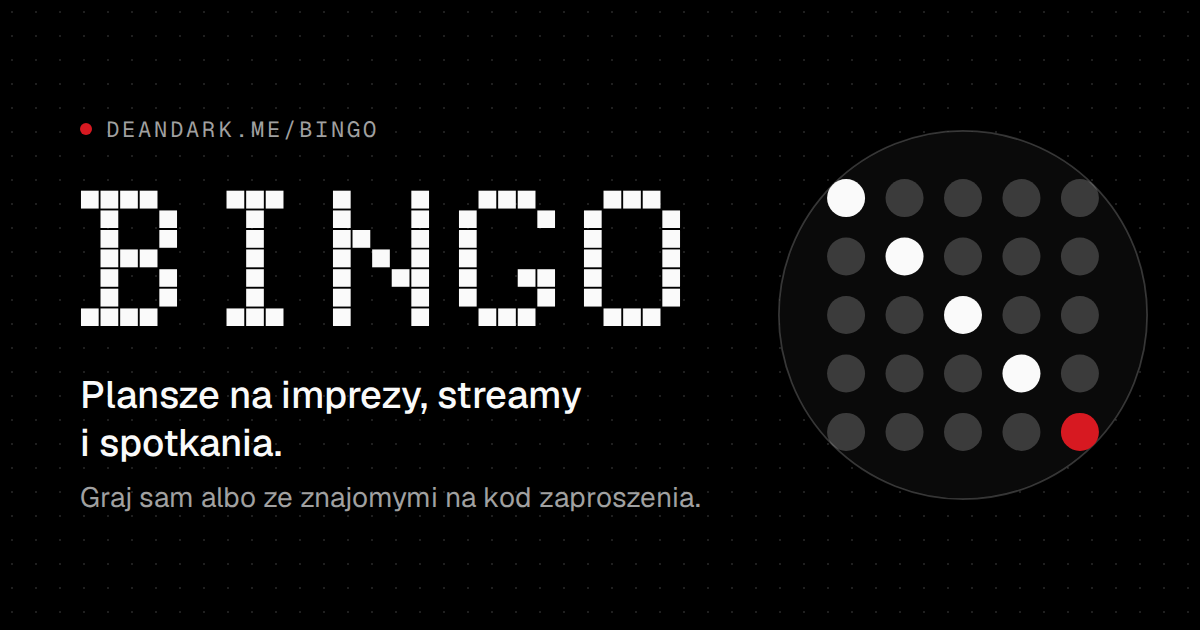
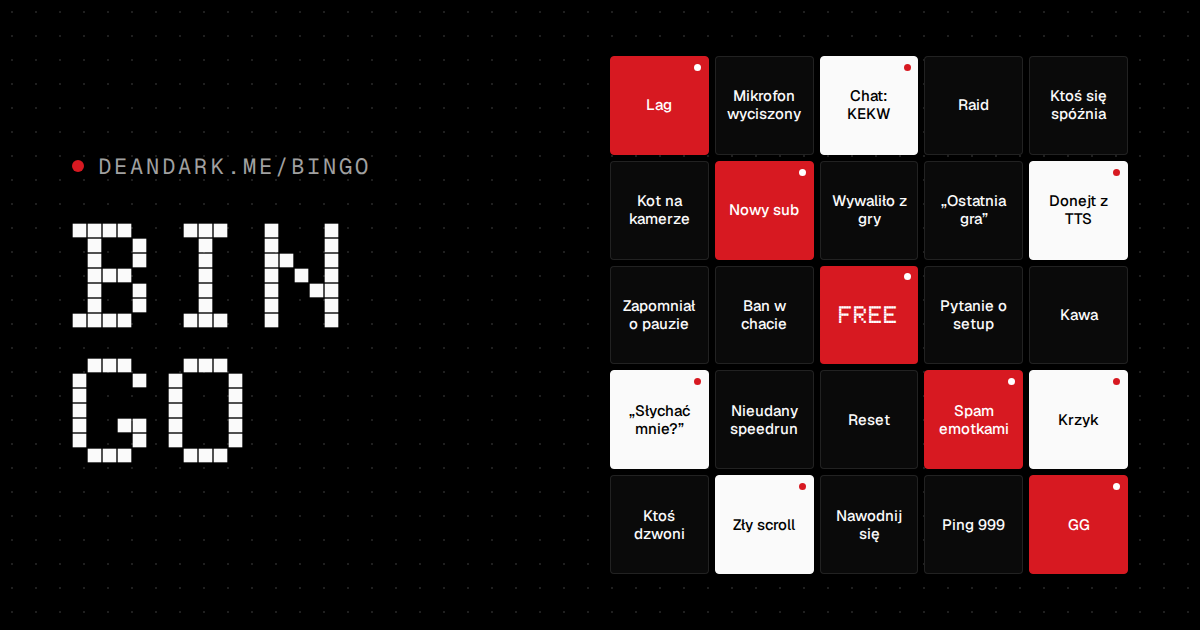
Add a Discord component embed for link previews
Discord renders a Components V2 card for the link when the page head carries
a discord:component-embed payload, like the one on deandark.me. The card
shows a sample board, the logo, the three ways to play and link buttons.
Open Graph stays as the fallback, now with the sample board as its image.

diff --git a/src/app.html b/src/app.html
@@ -10,13 +10,18 @@
 		<meta property="og:title" content="Bingo" />
 		<meta property="og:description" content="Plansze bingo. Sam albo ze znajomymi na kod zaproszenia." />
 		<meta property="og:type" content="website" />
+		<meta property="og:site_name" content="DeanDark" />
 		<meta property="og:locale" content="pl_PL" />
 		<!-- Absolute, since link previews (Discord and others) resolve nothing relative. -->
 		<meta property="og:image" content="https://deandark.me/Bingo/og.png" />
 		<meta property="og:image:width" content="1200" />
 		<meta property="og:image:height" content="630" />
-		<meta property="og:image:alt" content="Bingo: plansze na imprezy, streamy i spotkania" />
+		<meta property="og:image:alt" content="Przykładowa plansza 5×5 z bingo po przekątnej" />
 		<meta name="twitter:card" content="summary_large_image" />
+		<!-- Discord component embed: a Components V2 card in place of the Open Graph preview.
+		     Discord runs no JS, so it lives here; over 3,000 bytes it silently falls back to the tags above.
+		     https://docs.discord.com/developers/link-previews/component-embeds -->
+		<script id="discord:component-embed" type="application/json">{"component":{"type":17,"accent_color":14096673,"components":[{"type":12,"items":[{"media":{"url":"https://deandark.me/Bingo/og.png"},"description":"Przykładowa plansza 5×5 z bingo po przekątnej"}]},{"type":9,"components":[{"type":10,"content":"# [Bingo](https://deandark.me/Bingo/)\n-# DeanDark · plansze bingo\nTwórz plansze na imprezy, streamy i spotkania. Graj sam albo ze znajomymi na kod zaproszenia."}],"accessory":{"type":11,"media":{"url":"https://deandark.me/Bingo/apple-touch-icon.png"}}},{"type":14},{"type":10,"content":"**Sam** · własne hasła, plansze zapisane w przeglądarce, eksport do pliku\n**Ze znajomymi** · pokój na kod, każdy dostaje pola w innej kolejności\n**Tryb streamera** · kod pokoju ukryty na ekranie i w pasku adresu\n-# Plansze od 3×3 do 6×6, do 50 graczy w pokoju"},{"type":1,"components":[{"type":2,"style":5,"url":"https://deandark.me/Bingo/","label":"Zagraj"},{"type":2,"style":5,"url":"https://github.com/D3anDark/Bingo","label":"GitHub"},{"type":2,"style":5,"url":"https://deandark.me/","label":"deandark.me"}]}]}}</script>
 		<link rel="icon" href="%sveltekit.assets%/favicon.svg" type="image/svg+xml" />
 		<link rel="apple-touch-icon" href="%sveltekit.assets%/apple-touch-icon.png" />
 		<script>
